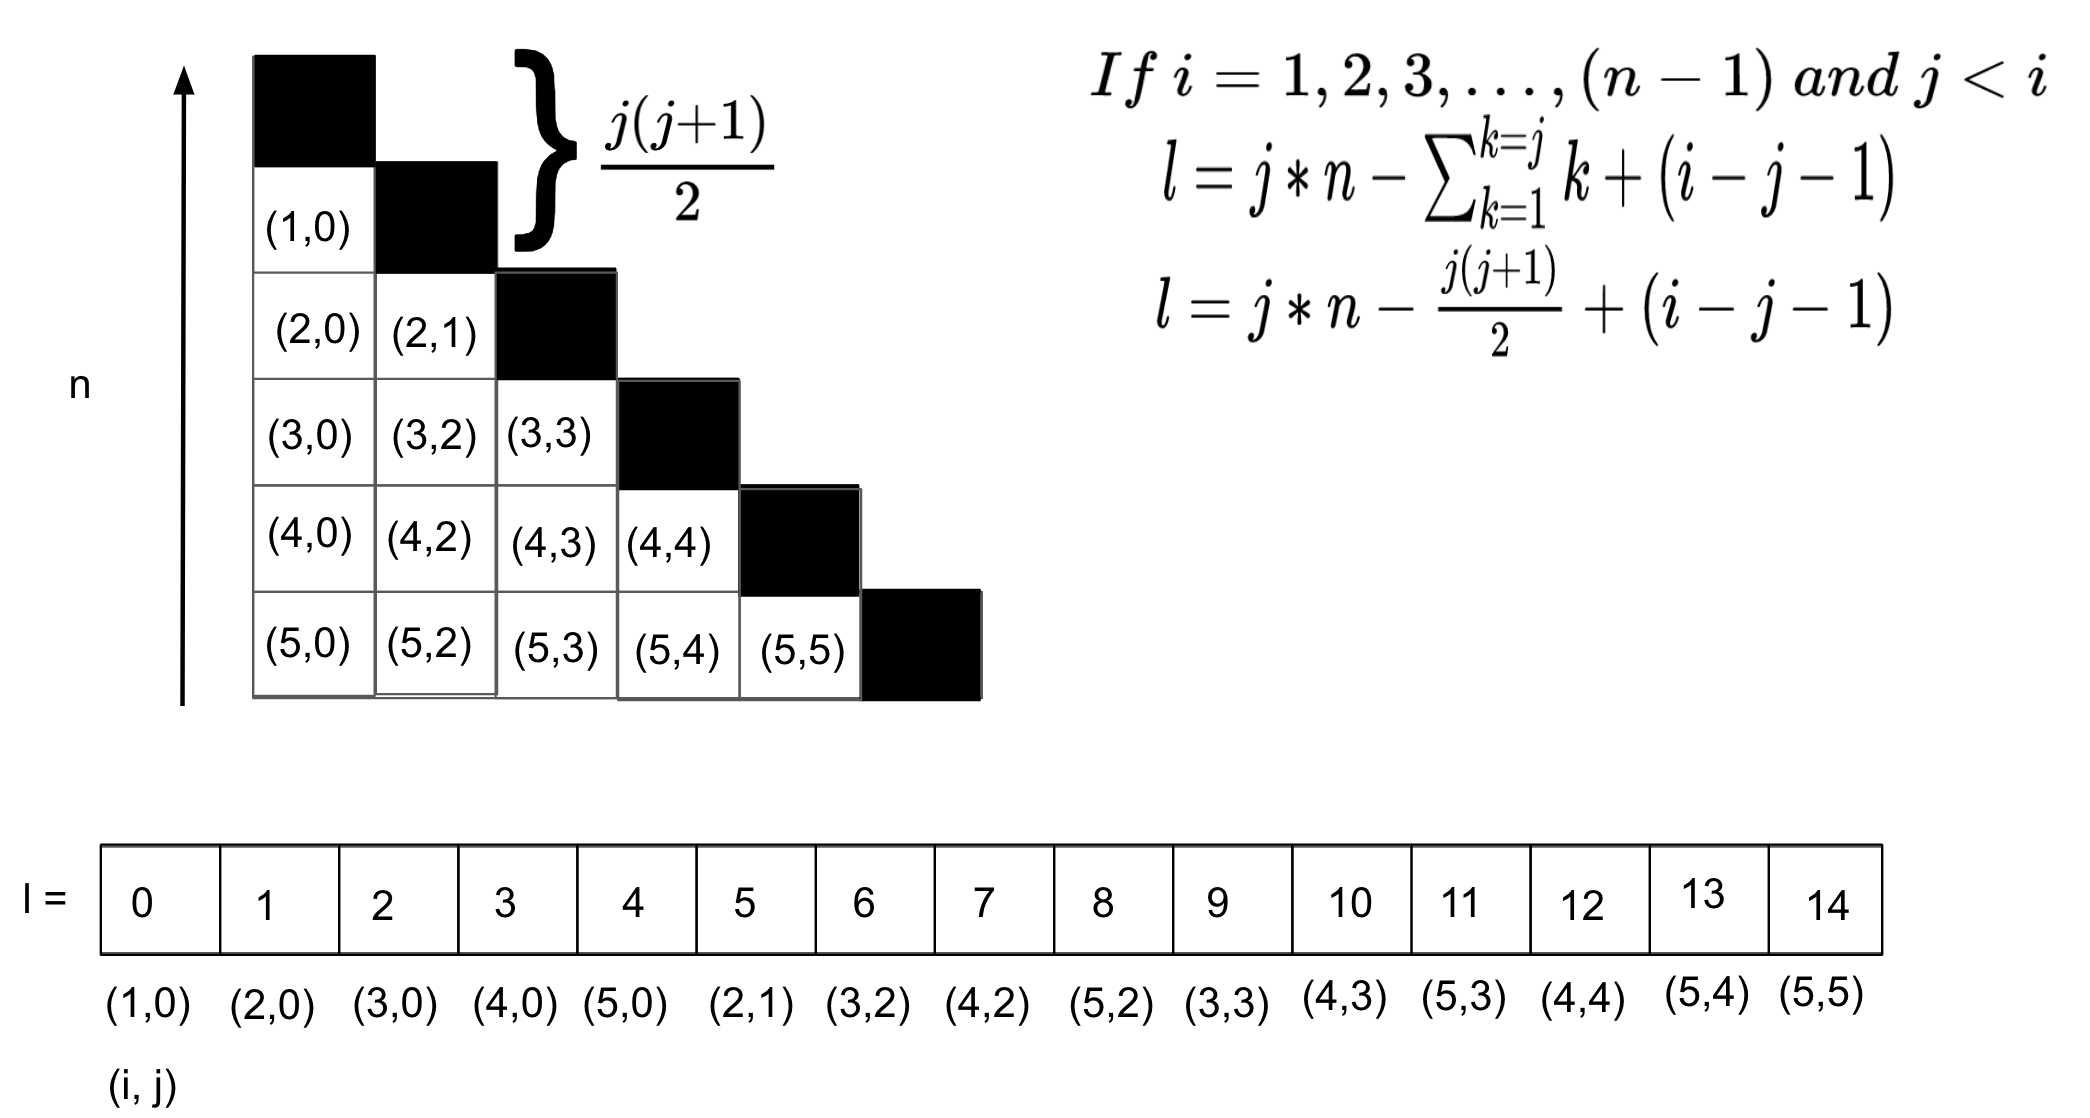
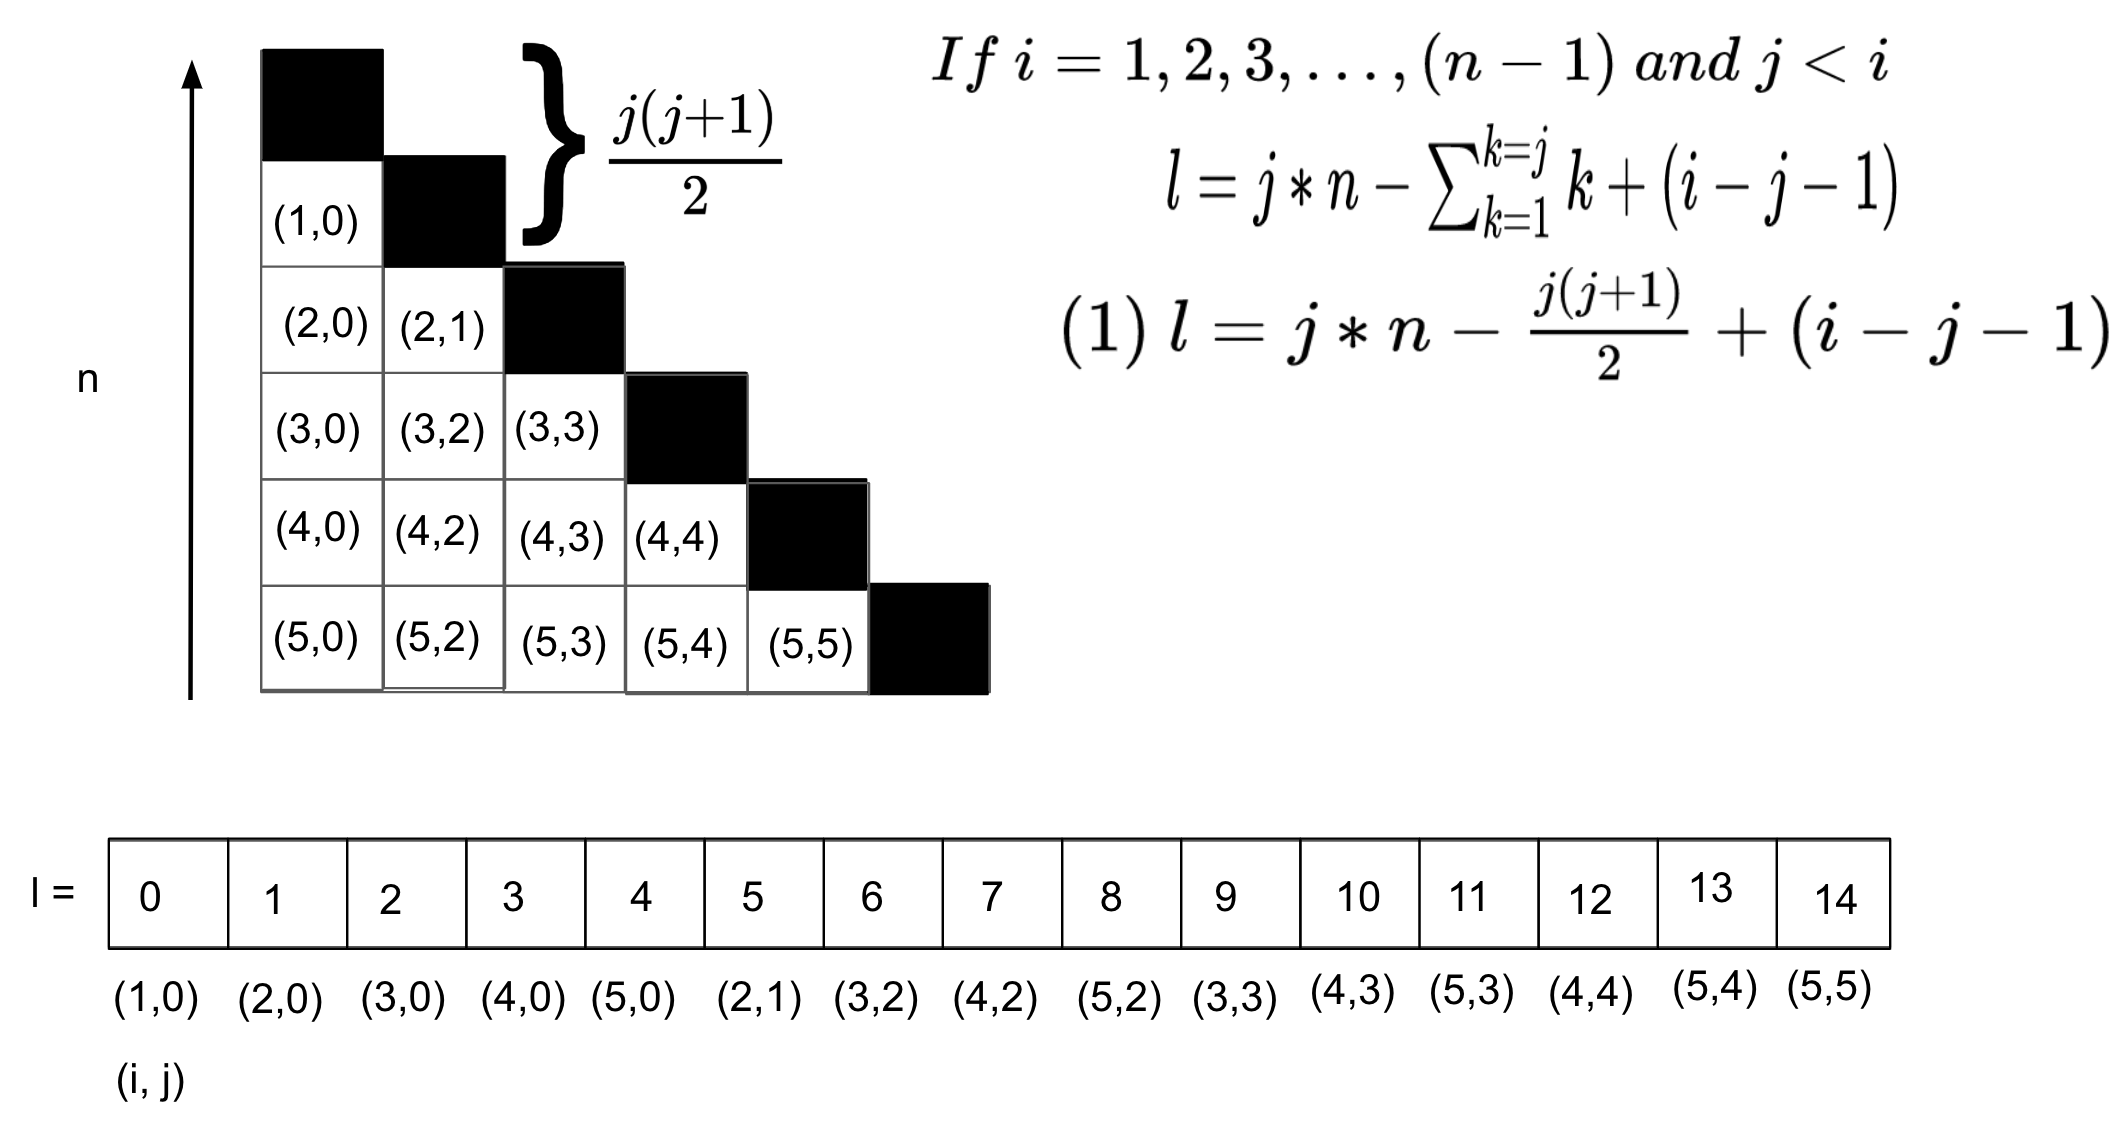
New figure for mapping ix

diff --git a/README.md b/README.md
@@ -101,5 +101,8 @@ To find the entry for (i,j) still only takes
 Since there is a unique mapping for each tuple (i,j) to l in the under triangle, see figure below.
 ![alt text](/images/mapping.png)
 
+For completeness, if j=1,2,3,...,(n-1) and i < j then just use equation 1 in the figure above,but instead of but use i -> j and j -> i since it's a symmetrical i.e., A(l(i,j))= A(l(j,i)).
+In the third case, i=j just output 1 since a distance matrix D(i,j)=D(i,i)=D(j,j)=D(j,i)=1.
+
 
 
